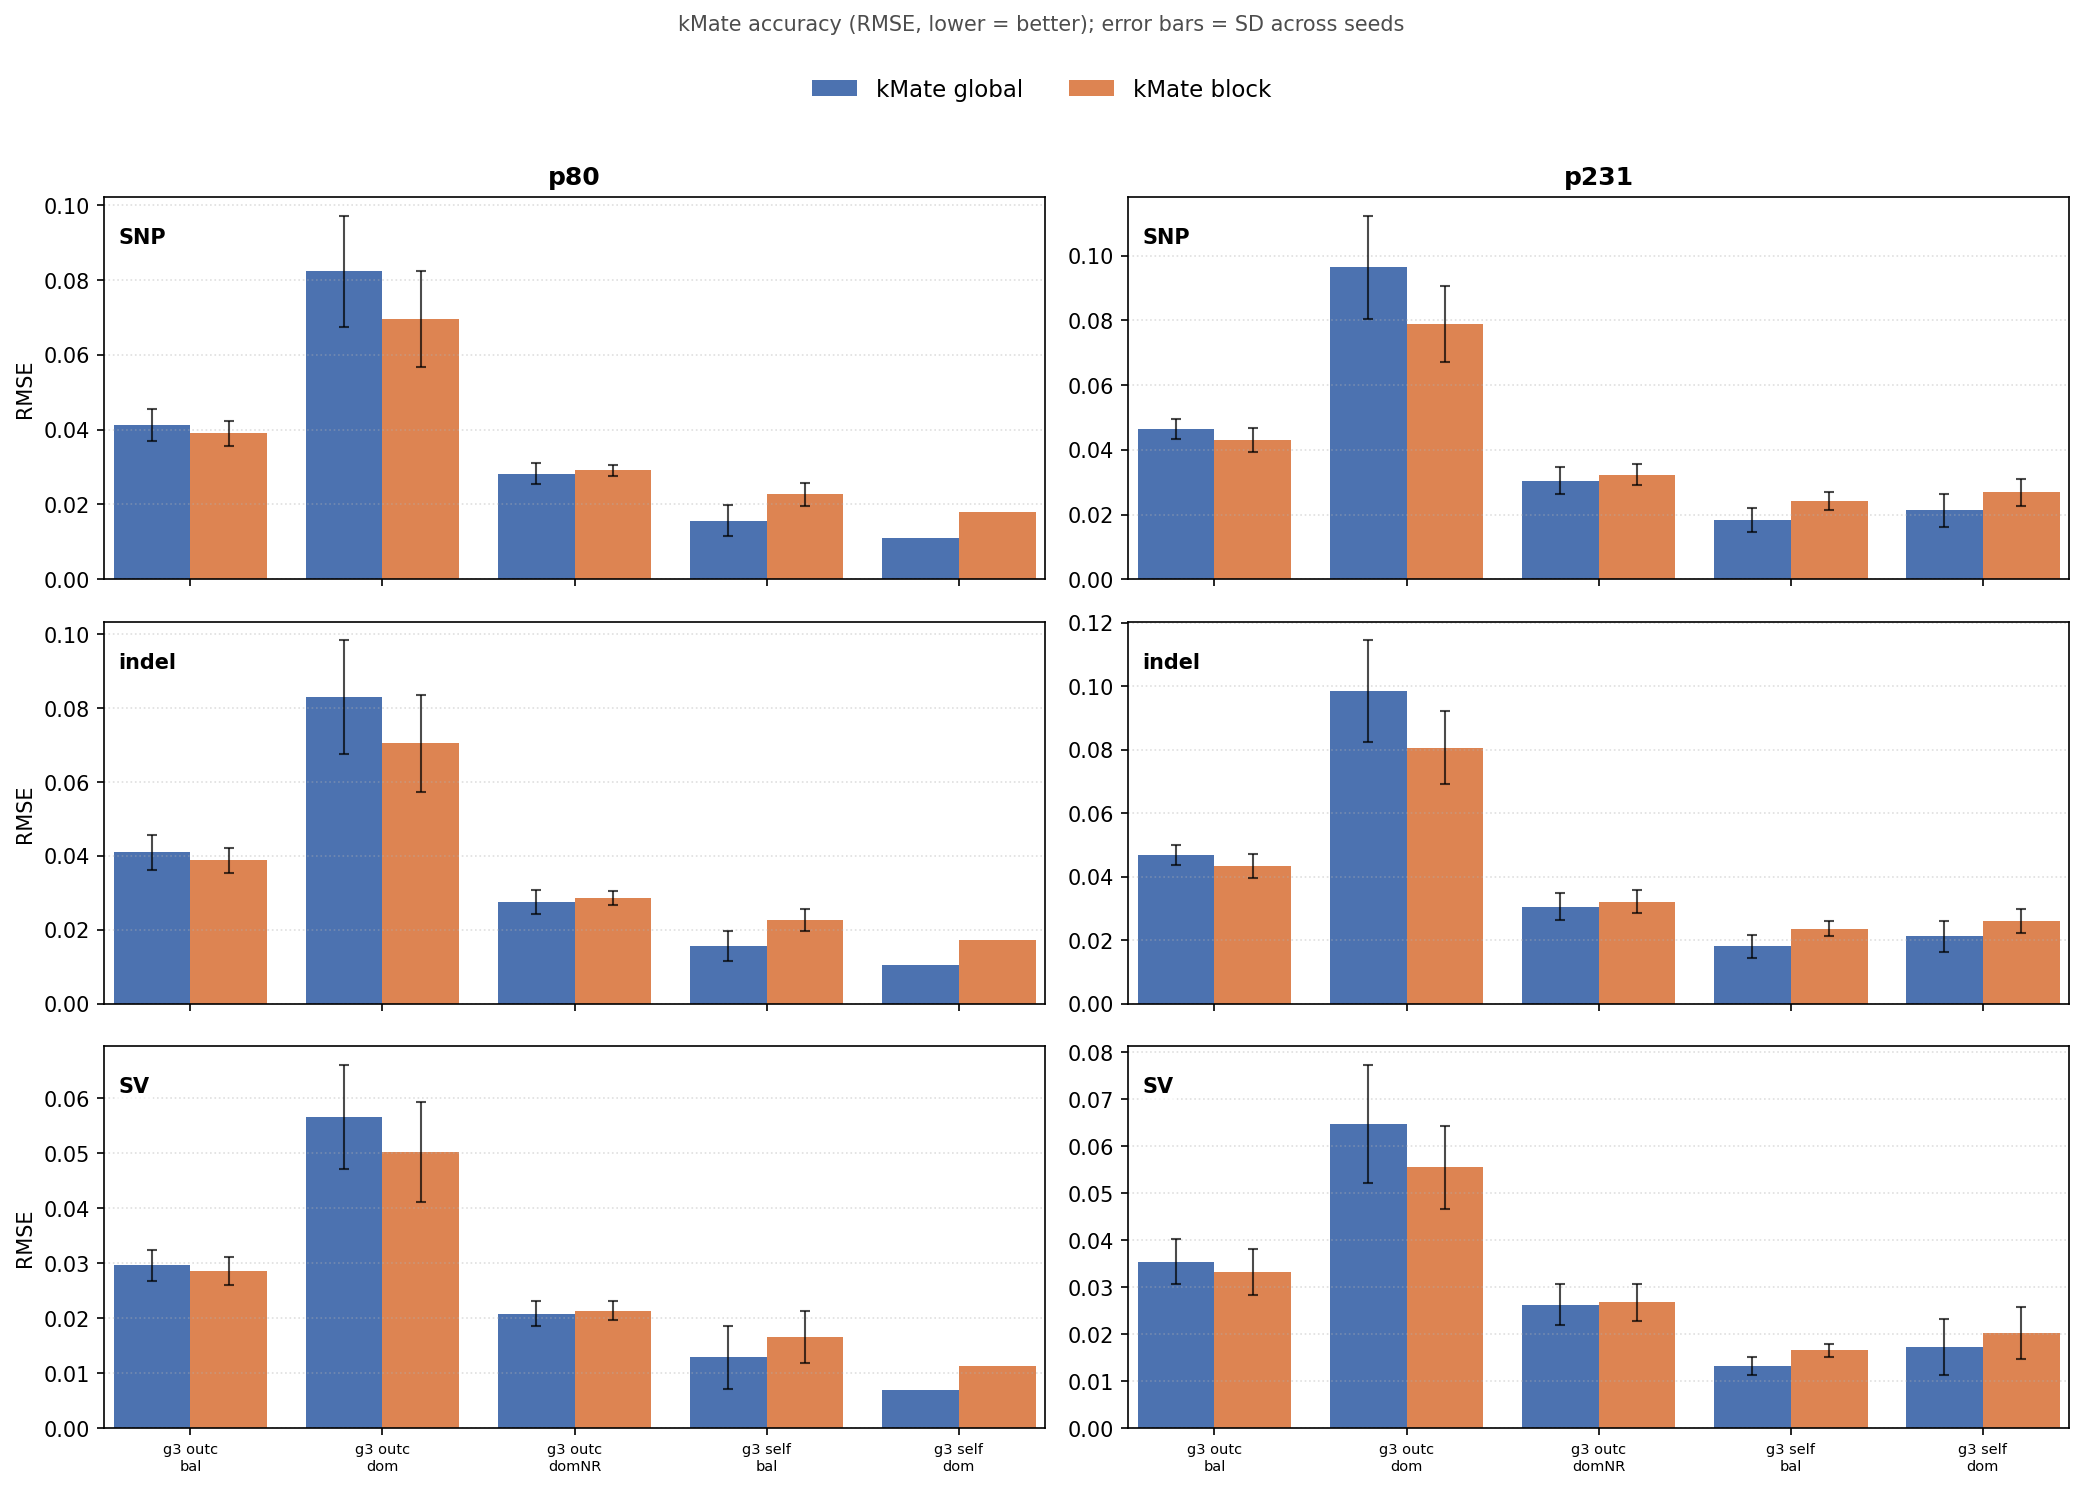
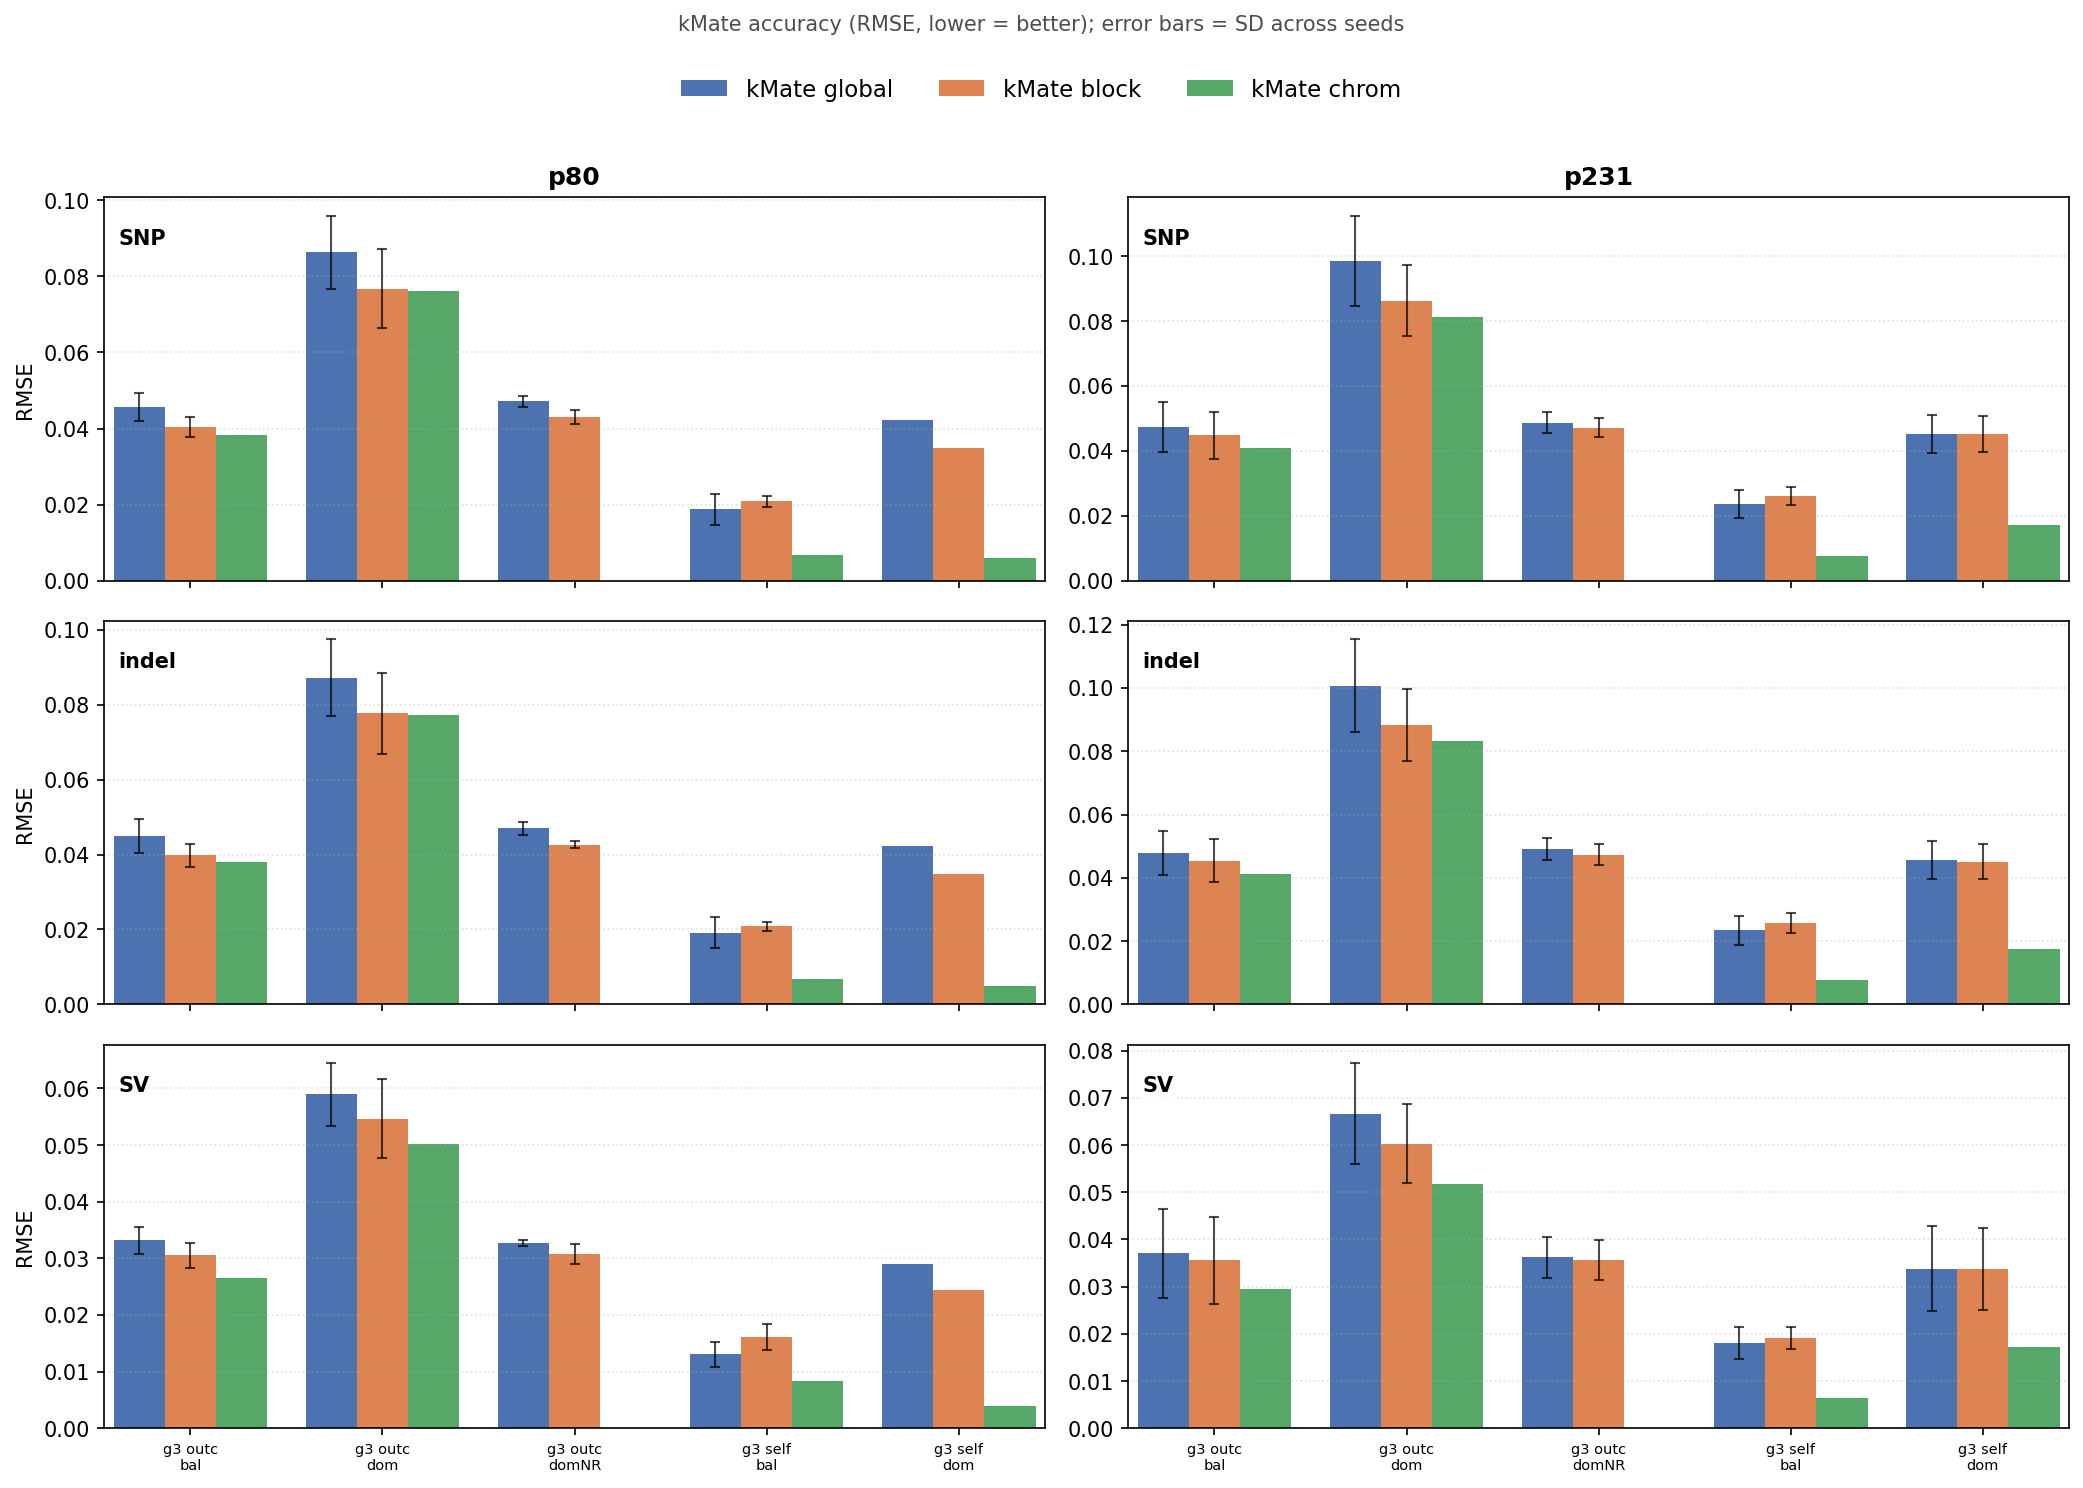
benchmarks: extend table/figure builders to --unit chrom, append chrom rows
build_benchmark_table.py: widen --mode choices to chrom/ld (current --unit
labels), keeping global/block for old rows' provenance. Purely a metadata
label — no branching logic depended on the old choices.

Append 80 new rows (10 regimes x 4 var-classes x {p231,p80}) scored from the
already-generated kmate_chrom_raw / kmate_chrom_p80_filt2inv results.

build_benchmark_figure.py: bar/legend logic was hardcoded to exactly
{global,block}; generalized to plot whichever modes are present per
founder-count subset, with chrom/ld added a distinct color. Regenerated
benchmark_panel_rmse{,_g3}.png — chrom now visibly outperforms both legacy
arms across every scenario, on both panels.

benchmark_table_4tool.tsv / build_4tool_figure.py NOT touched here: Phase 5
(re-running the kMate arm of the competitor comparison under --unit chrom) is
still incomplete upstream in accuracy_vs_competitors/ per ROADMAP_GLOBAL_REFRESH.md
and needs its own pass, not a rushed regen on top of partial data.

diff --git a/benchmarks/build_benchmark_figure.py b/benchmarks/build_benchmark_figure.py
@@ -1,6 +1,8 @@
 #!/usr/bin/env python3
-"""Publication panel figure from benchmark_table.tsv: RMSE barplots, kMate GLOBAL vs
-BLOCK(dynld_K500), faceted by variation class (rows) x panel (cols), x-axis = scenario.
+"""Publication panel figure from benchmark_table.tsv: RMSE barplots across whichever
+kMate modes are present for a given founder count (current: chrom/ld under --unit;
+retained for provenance: global/block, the pre-2026-07-07 --block-mode labels),
+faceted by variation class (rows) x panel (cols), x-axis = scenario.
 Error bars = SD across seeds (g3 scenarios are multi-seed; single-seed -> no bar).
 Lower RMSE = better.
 
@@ -15,7 +17,9 @@ matplotlib.use("Agg")
 import matplotlib.pyplot as plt
 from matplotlib.patches import Patch
 
-MODE_COLOR = {"global": "#4C72B0", "block": "#DD8452"}   # blue / orange
+MODE_COLOR = {"global": "#4C72B0", "block": "#DD8452",  # blue / orange (pre-2026-07-07 --block-mode)
+              "chrom": "#55A868", "ld": "#8172B2"}       # green / purple (current --unit)
+MODE_ORDER = ["global", "block", "chrom", "ld"]
 CLASSES = ["SNP", "indel", "SV"]
 
 
@@ -48,6 +52,8 @@ def main():
     g = (t.groupby(["panel", "var_class", "scn", "mode", "_o"])[a.metric]
            .agg(["mean", "std", "count"]).reset_index())
 
+    modes = [m for m in MODE_ORDER if m in g["mode"].unique()]
+    nm = max(len(modes), 1)
     panels = ["p80", "p231"]
     fig, axes = plt.subplots(len(CLASSES), len(panels), figsize=(7.0 * len(panels), 3.2 * len(CLASSES)),
                              squeeze=False, sharex="col")
@@ -56,10 +62,10 @@ def main():
             ax = axes[ci][pi]
             sub = g[(g.var_class == vc) & (g.panel == pan)].sort_values("_o")
             scns = sub.drop_duplicates("scn").sort_values("_o")["scn"].tolist()
-            x = np.arange(len(scns)); w = 0.4
-            for mi, mode in enumerate(["global", "block"]):
+            x = np.arange(len(scns)); w = 0.8 / nm
+            for mi, mode in enumerate(modes):
                 s = sub[sub["mode"] == mode].set_index("scn").reindex(scns)
-                ax.bar(x + (mi - 0.5) * w, s["mean"].values, w, yerr=s["std"].values,
+                ax.bar(x + (mi - (nm - 1) / 2) * w, s["mean"].values, w, yerr=s["std"].values,
                        color=MODE_COLOR[mode], capsize=2.5, error_kw=dict(lw=1, alpha=0.7),
                        label=mode)
             ax.set_xticks(x); ax.set_xticklabels(scns, fontsize=7)
@@ -70,8 +76,8 @@ def main():
                     va="top", bbox=dict(fc="white", ec="none", alpha=0.7, pad=1.5))
             ax.grid(axis="y", ls=":", alpha=0.4)
             ax.margins(x=0.01)
-    handles = [Patch(fc=MODE_COLOR[m], label=f"kMate {m}") for m in ["global", "block"]]
-    fig.legend(handles=handles, loc="upper center", ncol=2, fontsize=11,
+    handles = [Patch(fc=MODE_COLOR[m], label=f"kMate {m}") for m in modes]
+    fig.legend(handles=handles, loc="upper center", ncol=nm, fontsize=11,
                frameon=False, bbox_to_anchor=(0.5, 1.0))
     better = "lower = better" if a.metric in ("RMSE", "MAE") else "higher = better"
     fig.suptitle(f"kMate accuracy ({a.metric}, {better}); error bars = SD across seeds",

diff --git a/benchmarks/build_benchmark_table.py b/benchmarks/build_benchmark_table.py
@@ -73,7 +73,11 @@ def metrics(est, truth):
 def main():
     ap = argparse.ArgumentParser()
     ap.add_argument("--tool", required=True)
-    ap.add_argument("--mode", required=True, choices=["global", "block"])
+    ap.add_argument("--mode", required=True,
+                     choices=["global", "block", "chrom", "ld"],
+                     help="global/block are the pre-2026-07-07 --block-mode labels "
+                          "(kept for old rows' provenance); chrom/ld are the current "
+                          "--unit labels (chrom = selfing production, ld = per-block control)")
     ap.add_argument("--pool", required=True, help="sim pool name (metadata parsed from it)")
     ap.add_argument("--truth", required=True)
     ap.add_argument("--est", required=True)
